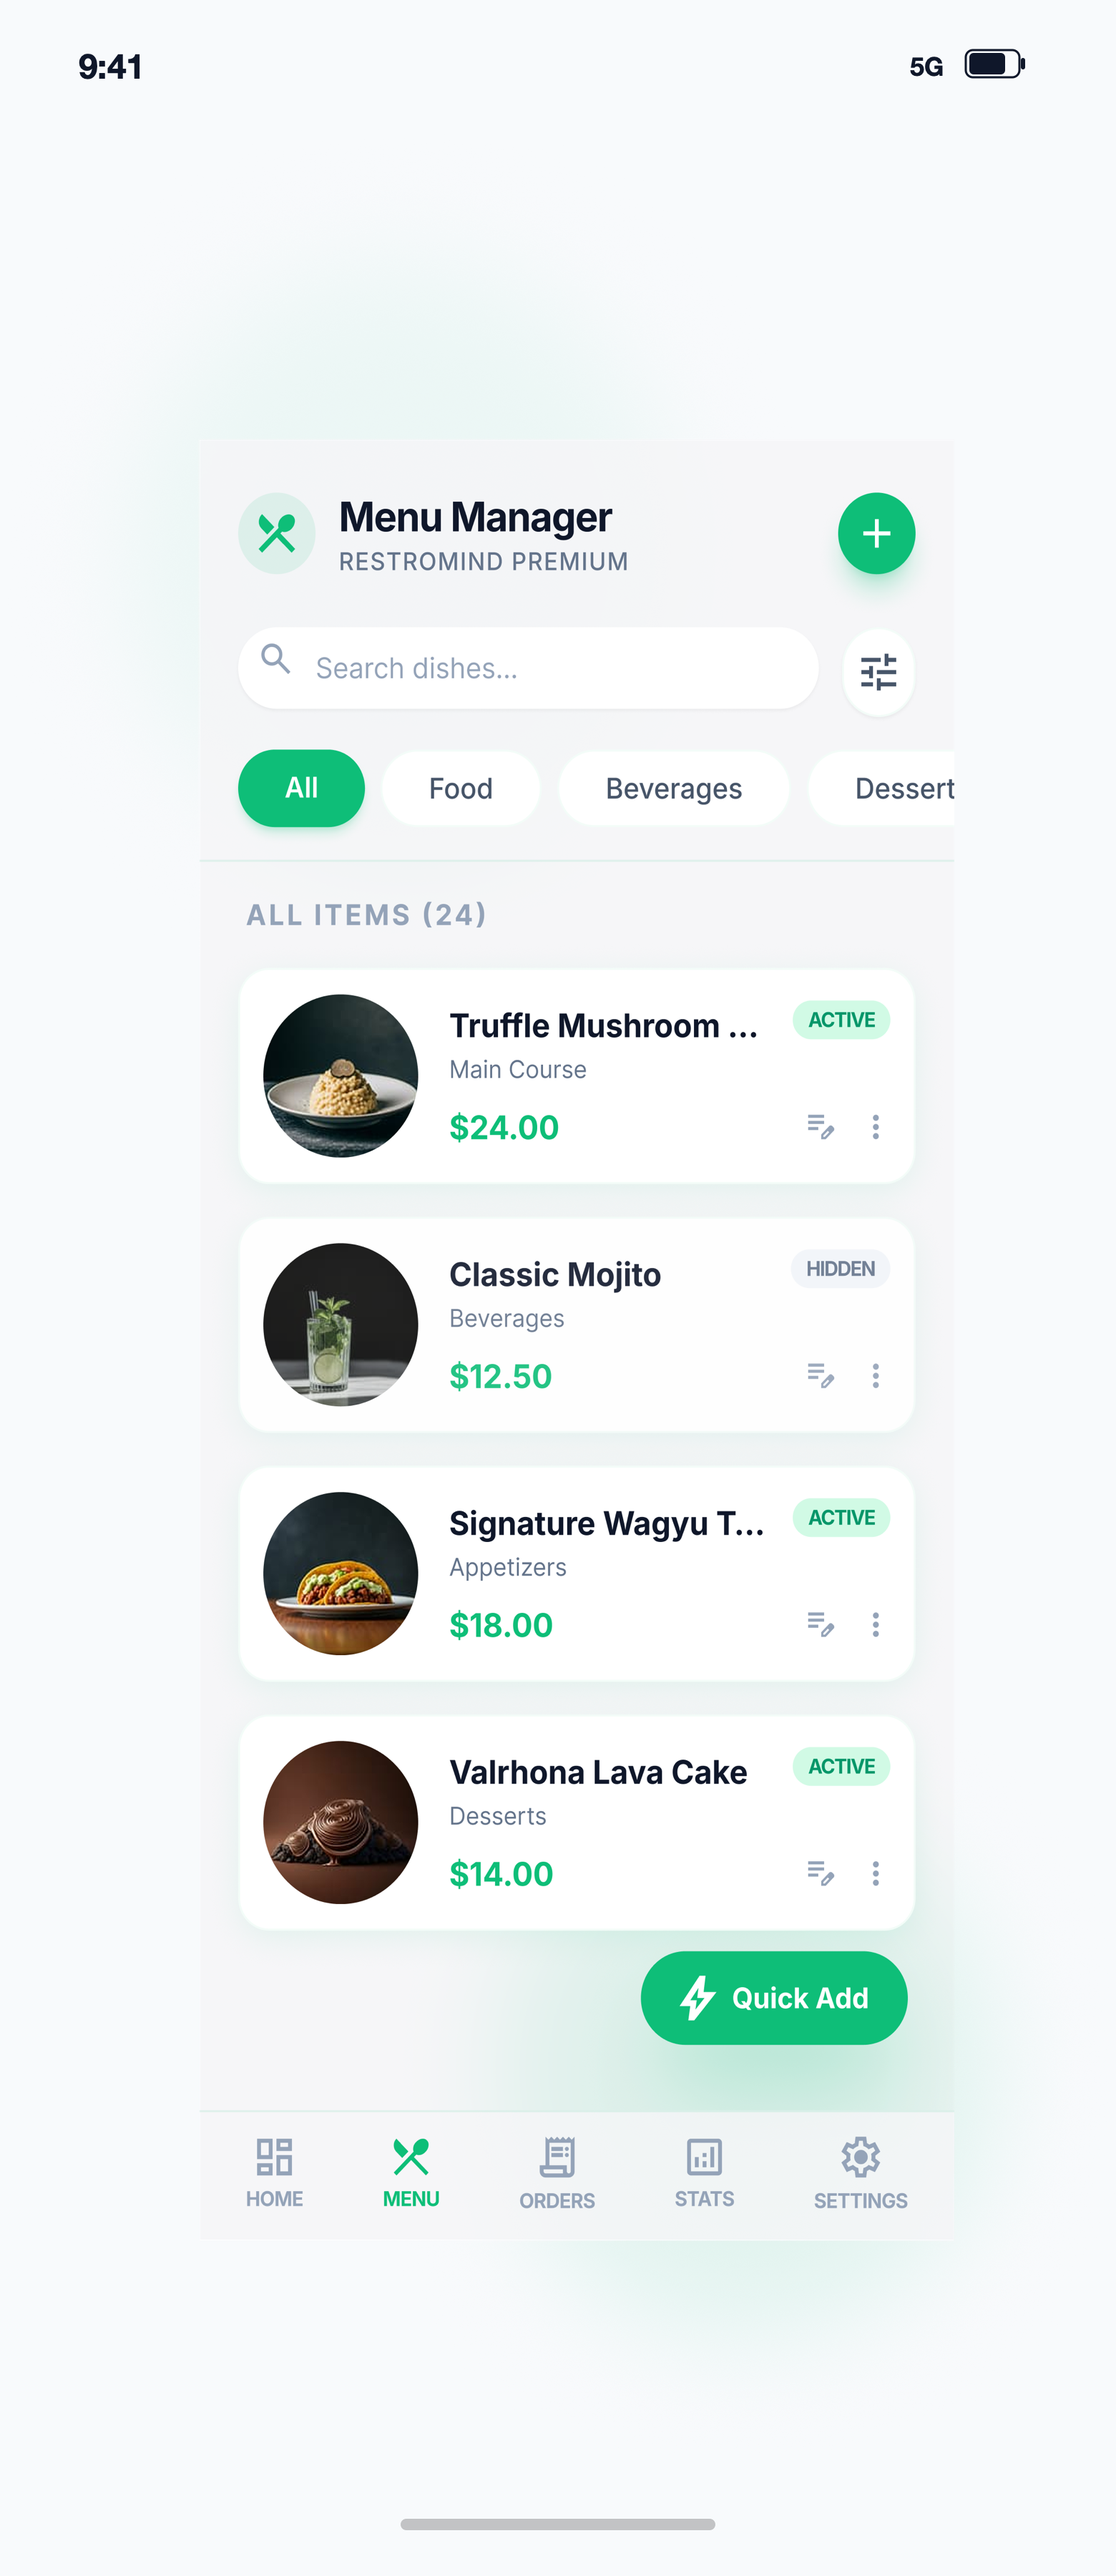
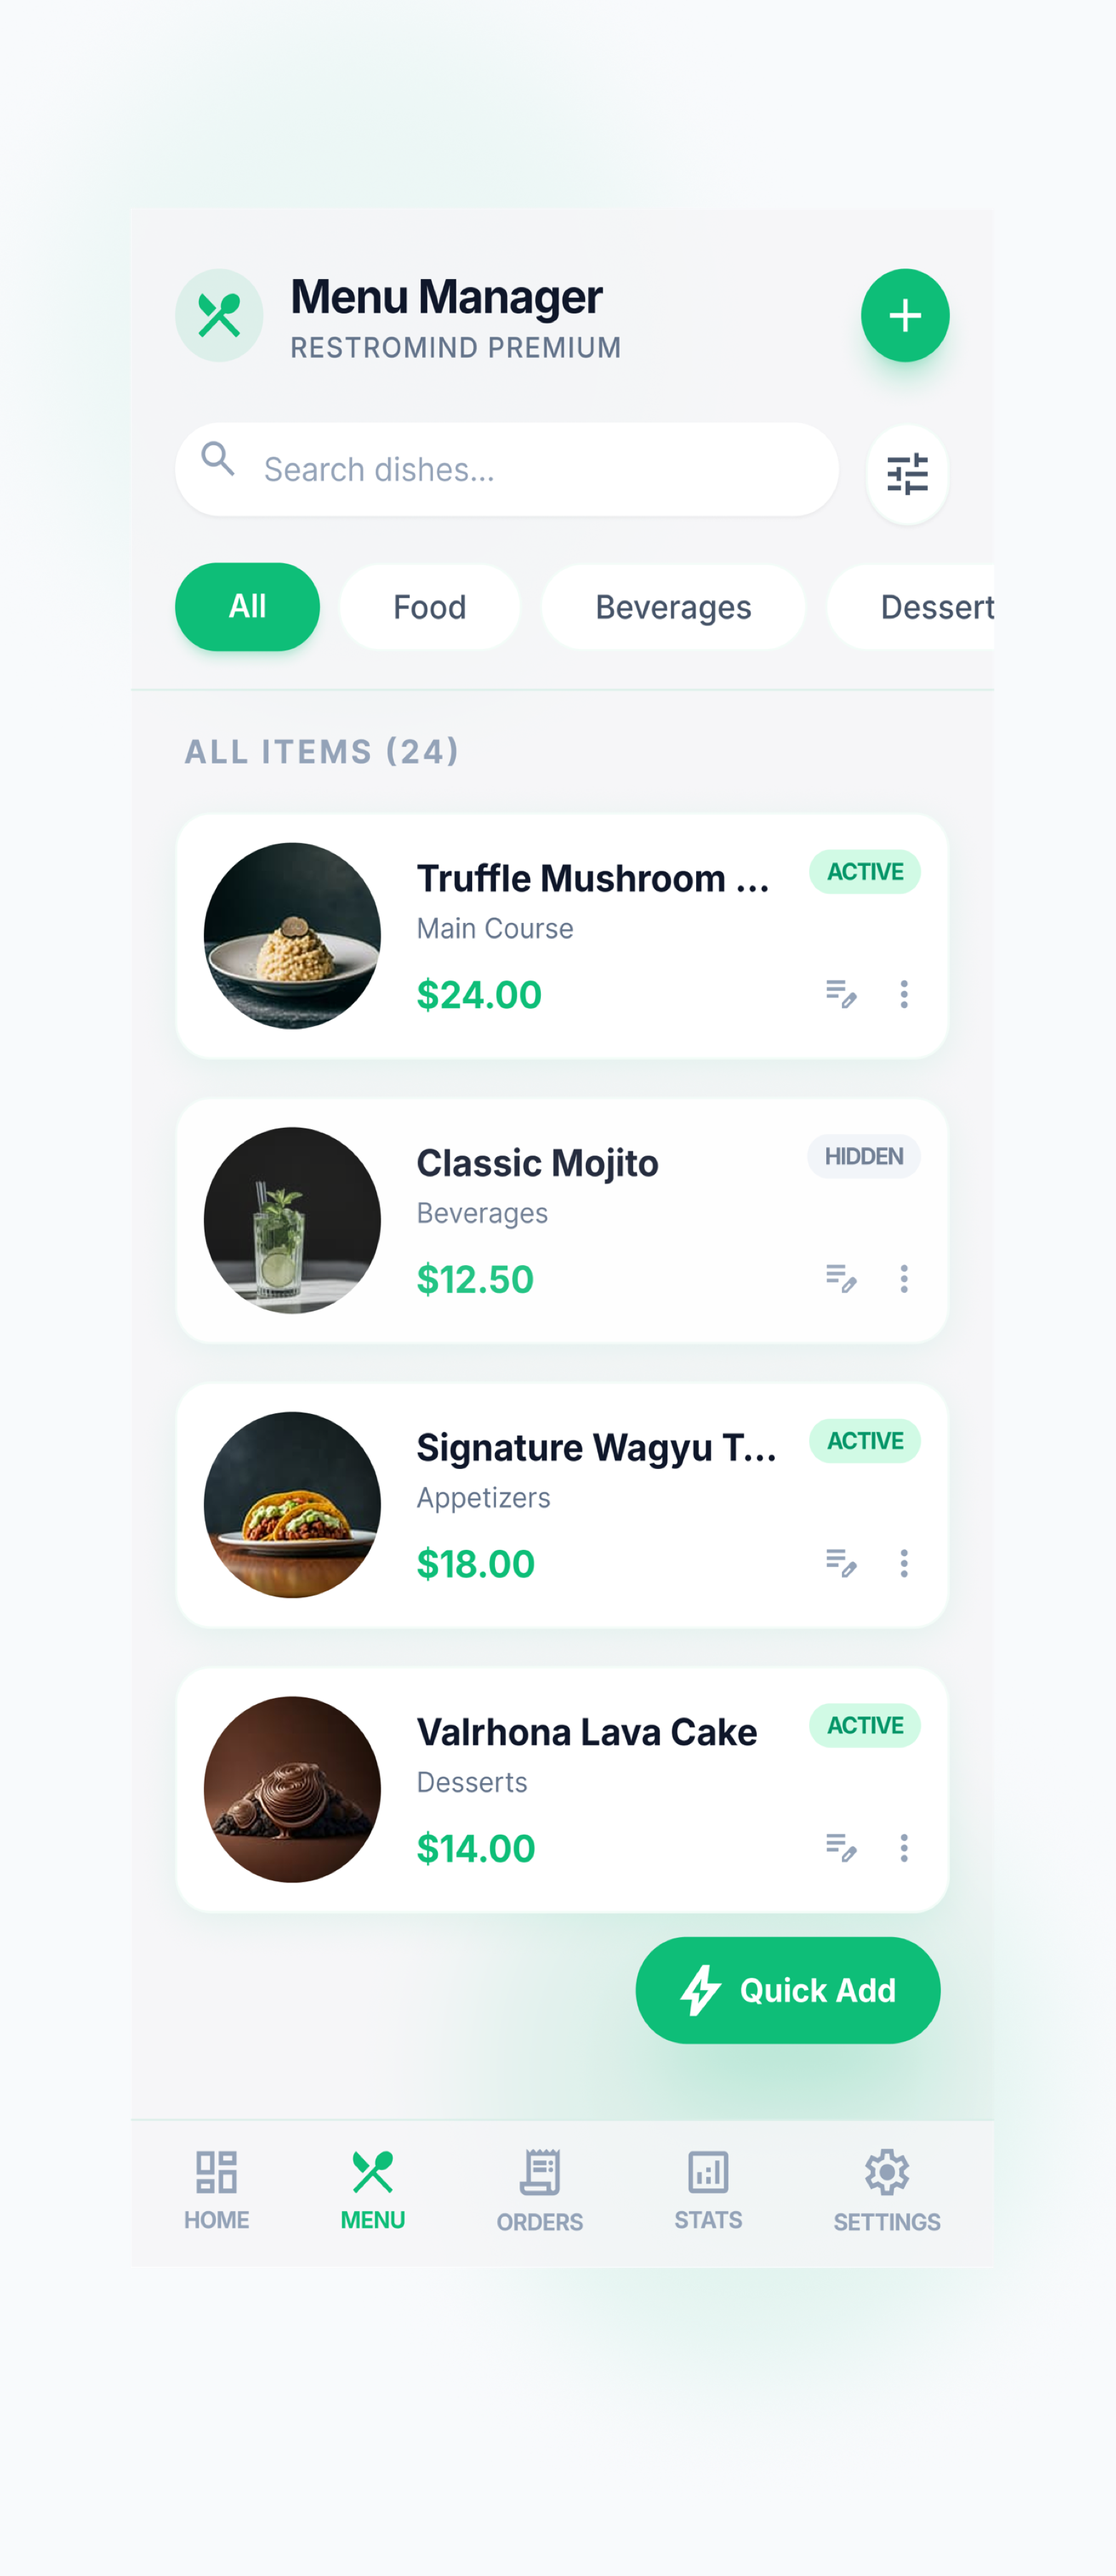
fix(admin): zoom and fit menu-management screen to phone frame without white borders

diff --git a/src/components/AdminAppShowcase.jsx b/src/components/AdminAppShowcase.jsx
@@ -4,7 +4,7 @@ const adminScreenMap = {
   'dashboard': 'assets/images/admin/dashboard-overview.png?v=sharp',
   'orders': 'assets/images/admin/orders.png?v=sharp',
   'print': 'assets/images/admin/order-print.png?v=sharp',
-  'menu': 'assets/images/admin/menu-management.png?v=sharp',
+  'menu': 'assets/images/admin/menu-management.png?v=sharp2',
   'analytics': 'assets/images/admin/analytics.png?v=sharp',
   'revenue': 'assets/images/admin/revenue.png?v=sharp'
 };
